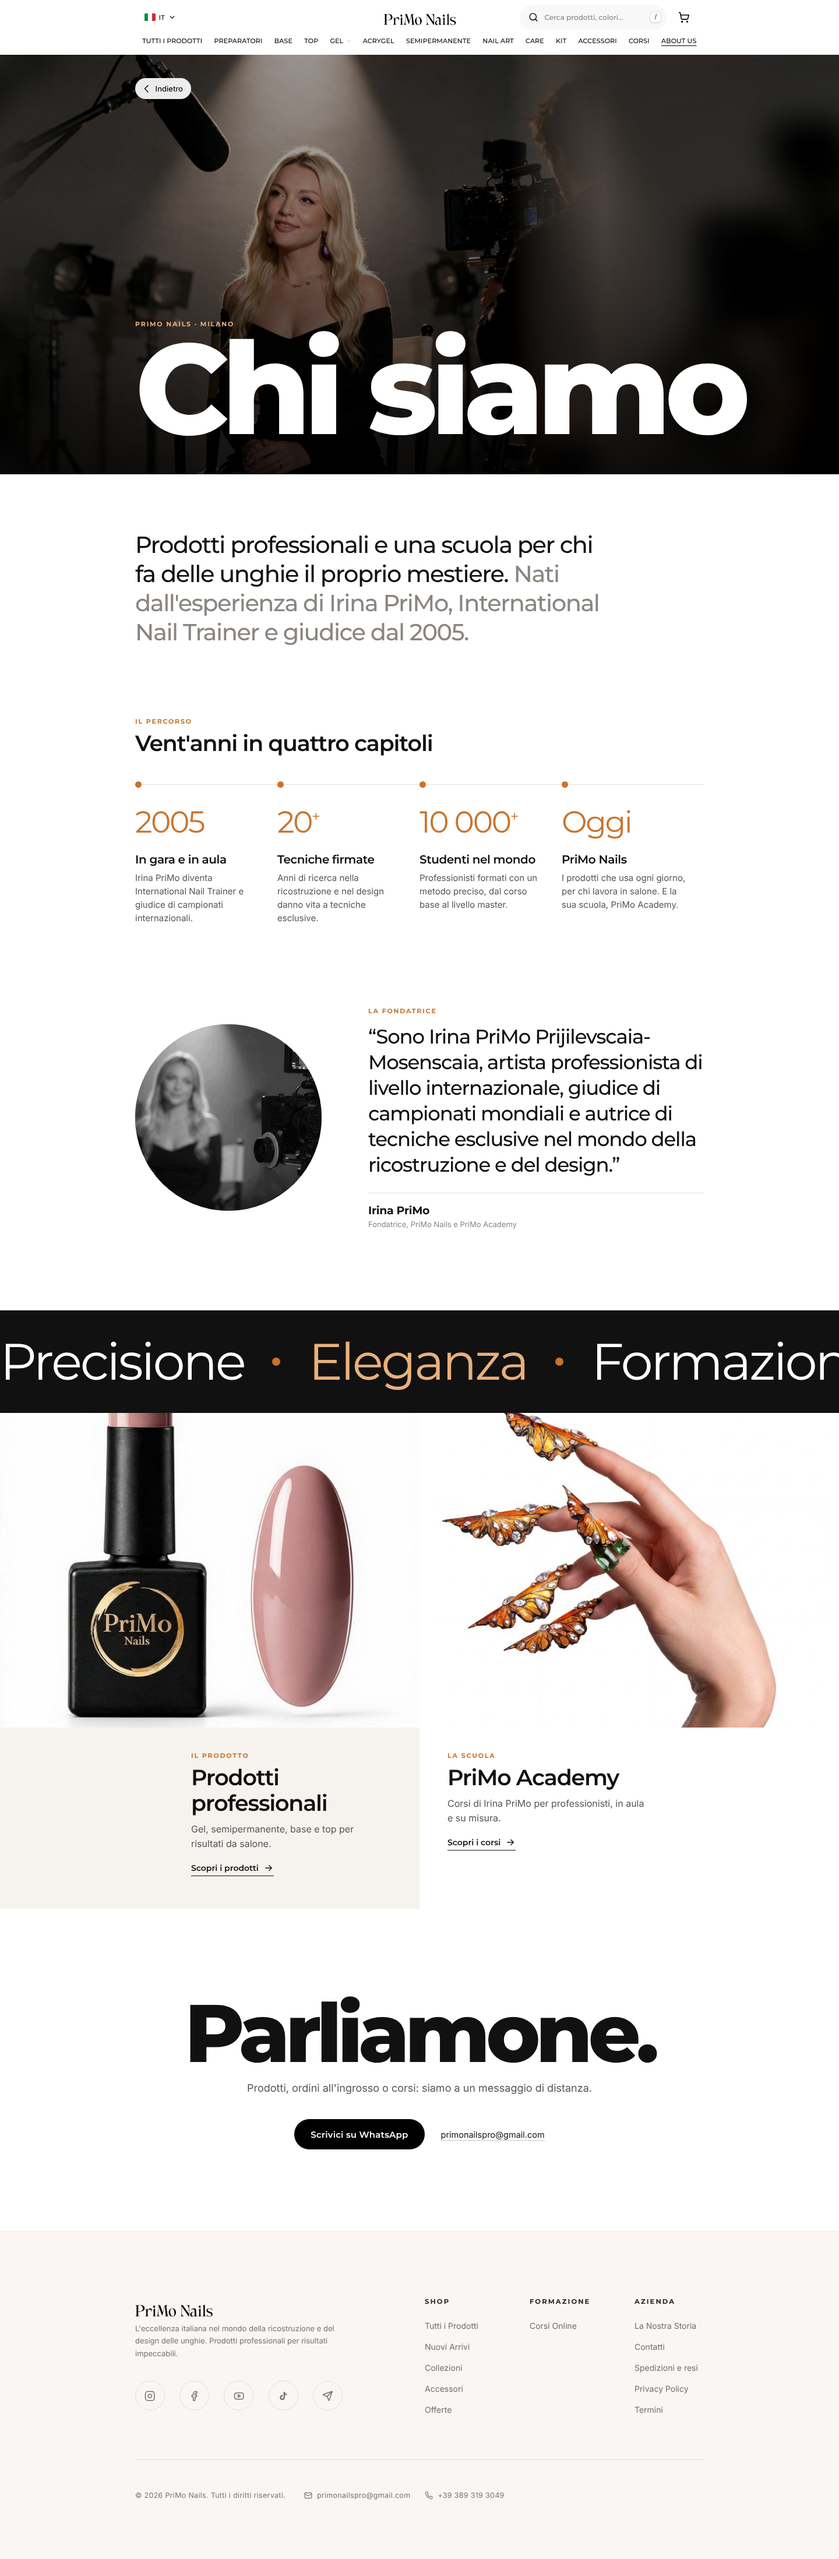
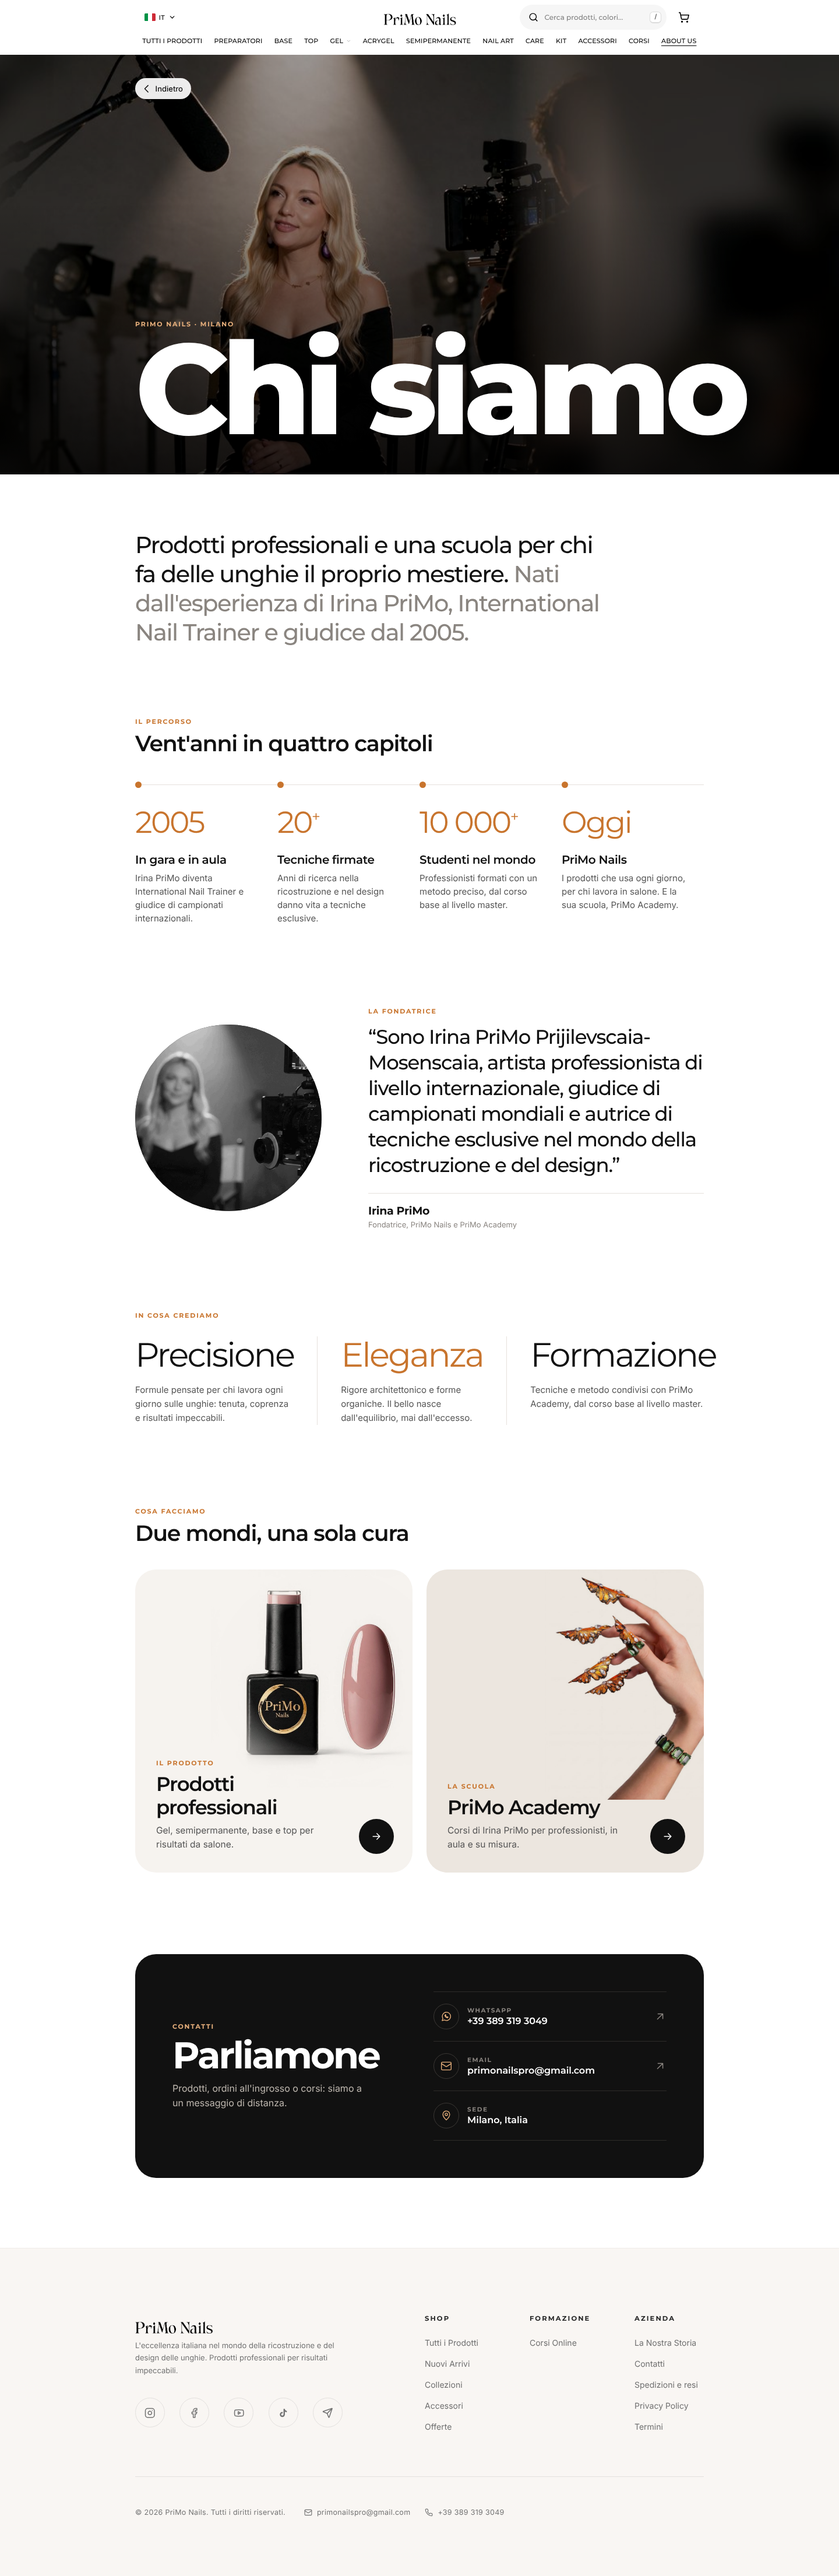
Chi siamo C: redesign the lower half
Replace the moving word band, full-bleed halves and giant ending with
three large thin value words, two warm shop/school tiles with round
arrow buttons, and a black contact panel listing WhatsApp, email and
the Milano base.

Claude-Session: https://claude.ai/code/session_017EUExbH1pksevugedMDwEj

diff --git a/css/about.css b/css/about.css
@@ -162,7 +162,7 @@
 }
 
 /* ===== Variant C (?v=c): cinematic. Full-bleed hero with giant type, a horizontal timeline, the founder in her own words,
-   a moving copper word band, two full-bleed halves for shop and school, and a typographic ending. ===== */
+   three values, two shop/school tiles and a black contact panel. ===== */
 .abc{--cx-warm:#f6f3ef;--cx-line:#e6e1dc;overflow:hidden}
 .abc h2{text-wrap:balance}
 .abc-hero{position:relative;height:560px;background:#111;color:#fff;overflow:hidden}
@@ -177,7 +177,7 @@
 
 .abc-time{padding:64px 0 0}
 .abc-time-head{padding:0 24px}
-.abc-time h2,.abc-end h2{margin:8px 0 0;font-size:30px;line-height:36px;font-weight:600;letter-spacing:-.9px;color:#111}
+.abc-time h2,.abc-paths h2{margin:8px 0 0;font-size:30px;line-height:36px;font-weight:600;letter-spacing:-.9px;color:#111}
 .abc-track{display:flex;gap:12px;margin:28px 0 0;padding:0 24px 4px;list-style:none;overflow-x:auto;scroll-snap-type:x mandatory;scroll-padding:0 24px;scrollbar-width:none;overscroll-behavior-x:contain}
 .abc-track::-webkit-scrollbar{display:none}
 .abc-track li{position:relative;flex:none;width:76%;padding:28px 22px 26px;border-radius:24px;background:var(--cx-warm);scroll-snap-align:start}
@@ -195,38 +195,9 @@
 .abc-name{margin:26px 0 0;padding-top:18px;border-top:1px solid var(--cx-line);font-size:17px;font-weight:700;letter-spacing:-.3px;color:#111}
 .abc-name span{display:block;margin-top:4px;font-family:var(--fi);font-size:13px;font-weight:400;letter-spacing:0;color:#8a8580}
 
-.abc-words-band{margin-top:72px;background:#111;overflow:hidden}
-.abc-band{padding:26px 0}
-.abc-band-track{display:flex;align-items:center;gap:28px;width:max-content;animation:abc-roll 26s linear infinite}
-.abc-band.off .abc-band-track{animation-play-state:paused}
-.abc-band span{font-size:44px;line-height:52px;font-weight:300;letter-spacing:-1.6px;color:#fff;white-space:nowrap}
-.abc-band span:nth-of-type(even){color:#e8b07c}
-.abc-band i{flex:none;width:10px;height:10px;border-radius:50%;background:var(--accent)}
-@keyframes abc-roll{to{transform:translateX(-50%)}}
-@media (prefers-reduced-motion:reduce){.abc-band-track{animation:none!important}}
 
-.abc-split{display:grid}
-.abc-half{position:relative;display:block;background:var(--cx-warm)}
-.abc-half img{width:100%;aspect-ratio:1;object-fit:cover;transition:transform .6s var(--ease)}
-.abc-half.school{background:#fff}
-.abc-half.school img{object-position:40% 15%}
-.abc-half>div{padding:28px 24px 40px}
-.abc-half h2{margin:8px 0 0;font-size:30px;line-height:36px;font-weight:600;letter-spacing:-.9px;color:#111}
-.abc-half>div>p:not(.cx-eyebrow){margin:10px 0 0;font-family:var(--fi);font-size:15px;line-height:23px;color:#555}
-.abc-go{display:inline-flex;align-items:center;gap:8px;margin-top:20px;padding-bottom:4px;border-bottom:1.5px solid #111;font-size:14px;font-weight:600;color:#111}
-.abc-go svg{width:18px;height:18px;stroke-width:1.8;transition:transform .2s}
-.abc-half:active{opacity:.92}
-
-.abc-end{padding:88px 24px 96px;text-align:center}
-.abc-end h2{font-size:64px;line-height:64px;font-weight:800;letter-spacing:-3.5px}
-.abc-end>p{margin:16px auto 0;max-width:320px;font-family:var(--fi);font-size:15.5px;line-height:23px;color:#555}
-.abc-ctas{display:flex;flex-direction:column;align-items:center;gap:18px;margin-top:30px}
-.abc-mail{font-family:var(--fi);font-size:14.5px;color:#111;text-decoration:underline;text-decoration-color:#c9c4bf;text-underline-offset:4px}
 
 @media (hover:hover) and (pointer:fine){
-  .abc-half:hover img{transform:scale(1.04)}
-  .abc-half:hover .abc-go svg{transform:translateX(4px)}
-  .abc-mail:hover{text-decoration-color:#111}
 }
 @media (max-width:439.98px){ .abc-title h1{font-size:84px;line-height:74px} }
 
@@ -242,7 +213,7 @@
 
   .abc-time{max-width:976px;margin:0 auto;padding-top:120px}
   .abc-time-head{padding:0}
-  .abc-time h2,.abc-end h2{font-size:38px;line-height:44px;letter-spacing:-1.2px}
+  .abc-time h2,.abc-paths h2{font-size:38px;line-height:44px;letter-spacing:-1.2px}
   .abc-track{display:grid;grid-template-columns:repeat(4,1fr);gap:0;margin-top:48px;padding:0;overflow:visible;border-top:1px solid var(--cx-line)}
   .abc-track li{width:auto;padding:36px 28px 0 0;border-radius:0;background:none}
   .abc-track li::before{left:0;right:auto;top:-6px;width:11px;height:11px;border-radius:50%;background:var(--accent)}
@@ -256,21 +227,69 @@
   .abc-words{font-size:34px;line-height:44px;letter-spacing:-1.2px}
   .abc-name{font-size:19px}
 
-  .abc-words-band{margin-top:140px}
-  .abc-band{padding:40px 0}
-  .abc-band-track{gap:48px}
-  .abc-band span{font-size:88px;line-height:96px;letter-spacing:-3.6px}
-  .abc-band i{width:14px;height:14px}
+}
 
-  .abc-split{grid-template-columns:1fr 1fr}
-  .abc-half img{aspect-ratio:4/3}
-  .abc-half>div{max-width:440px;padding:40px 48px 56px}
-  .abc-half.shop>div{margin-left:auto;padding-right:56px}
-  .abc-half h2{font-size:38px;line-height:44px;letter-spacing:-1.2px}
-  .abc-half>div>p:not(.cx-eyebrow){font-size:16px;line-height:25px}
+/* C: values, path tiles, contact panel */
+.abc-values{padding:72px 24px 0}
+.abc-values ul{margin:18px 0 0;padding:0;list-style:none;border-top:1px solid var(--cx-line)}
+.abc-values li{padding:22px 0 24px;border-bottom:1px solid var(--cx-line)}
+.abc-values h3{margin:0;font-size:48px;line-height:52px;font-weight:300;letter-spacing:-2.2px;color:#111}
+.abc-values li:nth-child(2) h3{color:var(--accent)}
+.abc-values li p{margin:8px 0 0;font-family:var(--fi);font-size:14.5px;line-height:22px;color:#555}
 
-  .abc-end{padding:140px 24px}
-  .abc-end h2{font-size:140px;line-height:130px;letter-spacing:-8px}
-  .abc-end>p{max-width:none;font-size:18px;line-height:27px}
-  .abc-ctas{flex-direction:row;justify-content:center;gap:28px;margin-top:40px}
+.abc-paths{padding:72px 24px 0}
+.abc-tiles{display:grid;gap:12px;margin-top:28px}
+.abc-tile{position:relative;display:flex;flex-direction:column;min-height:420px;padding:24px;border-radius:28px;background:var(--cx-warm);overflow:hidden;transition:transform .25s var(--ease),box-shadow .25s}
+.abc-tile img{position:absolute;right:-6%;top:0;width:86%;height:72%;object-fit:contain;object-position:100% 0;mix-blend-mode:multiply;transition:transform .6s var(--ease)}
+.abc-tile:not(.school) img{-webkit-mask-image:radial-gradient(ellipse 62% 62% at 58% 48%,#000 55%,transparent 100%);mask-image:radial-gradient(ellipse 62% 62% at 58% 48%,#000 55%,transparent 100%)}
+.abc-tile.school{background:#ece6df}
+.abc-tile.school img{right:-14%;width:96%;height:76%}
+.abc-tile-txt{position:relative;margin-top:auto;max-width:78%}
+.abc-tile h3{margin:8px 0 0;font-size:28px;line-height:32px;font-weight:600;letter-spacing:-.9px;color:#111}
+.abc-tile-txt>p:not(.cx-eyebrow){margin:8px 0 0;font-family:var(--fi);font-size:14.5px;line-height:21px;color:#555}
+.abc-arrow{position:absolute;right:20px;bottom:20px;display:grid;place-items:center;width:52px;height:52px;border-radius:50%;background:#111;color:#fff;transition:transform .25s var(--ease)}
+.abc-arrow svg{width:20px;height:20px;stroke-width:1.8}
+.abc-tile:active{transform:scale(.985)}
+
+.abc-contact{margin:72px 16px 40px;padding:40px 24px 16px;border-radius:28px;background:#111;color:#fff}
+.abc-contact .cx-eyebrow{color:#e8b07c}
+.abc-contact h2{margin:8px 0 0;font-size:44px;line-height:46px;font-weight:700;letter-spacing:-2px;color:#fff}
+.abc-contact-txt>p:not(.cx-eyebrow){margin:12px 0 0;font-family:var(--fi);font-size:15px;line-height:22px;color:#bdb6ae}
+.abc-lines{margin:28px 0 0;padding:0;list-style:none}
+.abc-lines li{border-top:1px solid #2e2b29}
+.abc-lines a,.abc-row{display:flex;align-items:center;gap:14px;min-height:76px;color:#fff}
+.abc-ic{flex:none;display:grid;place-items:center;width:44px;height:44px;border-radius:50%;border:1px solid #3a3734;color:#e8b07c}
+.abc-ic svg{width:20px;height:20px;stroke-width:1.6}
+.abc-lines a>span:nth-child(2),.abc-row>span:nth-child(2){flex:1;min-width:0;font-size:16px;font-weight:600;overflow-wrap:anywhere}
+.abc-lines small{display:block;margin-bottom:2px;font-size:10.5px;font-weight:700;letter-spacing:1.5px;text-transform:uppercase;color:#8a8580}
+.abc-go2{flex:none;width:22px;height:22px;stroke-width:1.6;color:#8a8580;transition:transform .25s var(--ease),color .2s}
+
+@media (hover:hover) and (pointer:fine){
+  .abc-tile:hover{transform:translateY(-4px);box-shadow:0 30px 60px -36px rgba(0,0,0,.3)}
+  .abc-tile:hover img{transform:scale(1.04)}
+  .abc-tile:hover .abc-arrow{transform:translateX(4px)}
+  .abc-lines a:hover .abc-go2{color:#fff;transform:translate(3px,-3px)}
+}
+
+@media (min-width:1024px){
+  .abc-values{max-width:976px;margin:0 auto;padding:140px 0 0}
+  .abc-values ul{display:grid;grid-template-columns:repeat(3,1fr);margin-top:28px;border-top:0}
+  .abc-values li{padding:0 40px 0 0;border-bottom:0}
+  .abc-values li+li{padding-left:40px;border-left:1px solid var(--cx-line)}
+  .abc-values h3{font-size:58px;line-height:64px;letter-spacing:-2.8px}
+  .abc-values li p{margin-top:16px;font-size:15px;line-height:24px}
+
+  .abc-paths{max-width:976px;margin:0 auto;padding:140px 0 0}
+  .abc-tiles{grid-template-columns:1fr 1fr;gap:24px;margin-top:40px}
+  .abc-tile{min-height:520px;padding:36px;border-radius:36px}
+  .abc-tile h3{font-size:34px;line-height:40px;letter-spacing:-1.2px}
+  .abc-tile-txt>p:not(.cx-eyebrow){font-size:15.5px;line-height:24px}
+  .abc-arrow{right:32px;bottom:32px;width:60px;height:60px}
+
+  .abc-contact{display:grid;grid-template-columns:minmax(0,1fr) 400px;gap:64px;align-items:center;max-width:976px;margin:140px auto 120px;padding:64px 64px;border-radius:36px}
+  .abc-contact h2{font-size:64px;line-height:66px;letter-spacing:-3px}
+  .abc-contact-txt>p:not(.cx-eyebrow){font-size:16px;line-height:25px;max-width:340px}
+  .abc-lines{margin:0}
+  .abc-lines li:last-child{border-bottom:1px solid #2e2b29}
+  .abc-lines a,.abc-row{min-height:84px}
 }

diff --git a/chi-siamo.html b/chi-siamo.html
@@ -17,7 +17,7 @@
 <link rel="stylesheet" href="css/site.css?v=c7978bb5">
 <link rel="stylesheet" href="css/search.css?v=b89386fe">
 <link rel="stylesheet" href="css/academy.css?v=81ab524e">
-<link rel="stylesheet" href="css/about.css?v=767b26ae">
+<link rel="stylesheet" href="css/about.css?v=540f4d43">
 </head>
 <body class="about">
 <div class="page" id="page">
@@ -189,29 +189,46 @@
       </div>
     </section>
 
-    <section class="abc-words-band" id="valori" aria-label="I nostri valori">
-      <div class="abc-band" data-animated aria-hidden="true"><div class="abc-band-track"><span>Precisione</span><i></i><span>Eleganza</span><i></i><span>Formazione</span><i></i><span>Eccellenza italiana</span><i></i><span>Precisione</span><i></i><span>Eleganza</span><i></i><span>Formazione</span><i></i><span>Eccellenza italiana</span><i></i></div></div>
-      <p class="sr">Precisione, eleganza, formazione, eccellenza italiana.</p>
+    <section class="abc-values" id="valori" aria-labelledby="values-h">
+      <p class="cx-eyebrow">In cosa crediamo</p>
+      <h2 id="values-h" class="sr">I nostri valori</h2>
+      <ul>
+        <li><h3>Precisione</h3><p>Formule pensate per chi lavora ogni giorno sulle unghie: tenuta, coprenza e risultati impeccabili.</p></li>
+        <li><h3>Eleganza</h3><p>Rigore architettonico e forme organiche. Il bello nasce dall'equilibrio, mai dall'eccesso.</p></li>
+        <li><h3>Formazione</h3><p>Tecniche e metodo condivisi con PriMo Academy, dal corso base al livello master.</p></li>
+      </ul>
     </section>
 
-    <section class="abc-split" id="lavoro" aria-label="Cosa facciamo">
-      <a class="abc-half shop" href="catalogo.html">
-        <img src="img/product.jpg" alt="" loading="lazy">
-        <div><p class="cx-eyebrow">Il prodotto</p><h2>Prodotti professionali</h2><p>Gel, semipermanente, base e top per risultati da salone.</p><span class="abc-go">Scopri i prodotti<svg viewBox="0 0 24 24" aria-hidden="true"><path d="M5 12h14M13 6l6 6-6 6"/></svg></span></div>
-      </a>
-      <a class="abc-half school" href="academy.html">
-        <img src="img/course1.jpg" alt="" loading="lazy">
-        <div><p class="cx-eyebrow">La scuola</p><h2>PriMo Academy</h2><p>Corsi di Irina PriMo per professionisti, in aula e su misura.</p><span class="abc-go">Scopri i corsi<svg viewBox="0 0 24 24" aria-hidden="true"><path d="M5 12h14M13 6l6 6-6 6"/></svg></span></div>
-      </a>
-    </section>
-
-    <section class="abc-end" aria-labelledby="end-h">
-      <h2 id="end-h">Parliamone.</h2>
-      <p>Prodotti, ordini all'ingrosso o corsi: siamo a un messaggio di distanza.</p>
-      <div class="abc-ctas">
-        <a class="cx-btn" href="https://wa.me/393893193049" target="_blank" rel="noopener">Scrivici su WhatsApp</a>
-        <a class="abc-mail" href="mailto:primonailspro@gmail.com">primonailspro@gmail.com</a>
+    <section class="abc-paths" id="lavoro" aria-labelledby="paths-h">
+      <p class="cx-eyebrow">Cosa facciamo</p>
+      <h2 id="paths-h">Due mondi, una sola cura</h2>
+      <div class="abc-tiles">
+        <a class="abc-tile" href="catalogo.html">
+          <img src="img/product.jpg" alt="" loading="lazy">
+          <div class="abc-tile-txt"><p class="cx-eyebrow">Il prodotto</p><h3>Prodotti professionali</h3><p>Gel, semipermanente, base e top per risultati da salone.</p></div>
+          <span class="abc-arrow" aria-hidden="true"><svg viewBox="0 0 24 24"><path d="M5 12h14M13 6l6 6-6 6"/></svg></span>
+          <span class="sr">Scopri i prodotti</span>
+        </a>
+        <a class="abc-tile school" href="academy.html">
+          <img src="img/course1.jpg" alt="" loading="lazy">
+          <div class="abc-tile-txt"><p class="cx-eyebrow">La scuola</p><h3>PriMo Academy</h3><p>Corsi di Irina PriMo per professionisti, in aula e su misura.</p></div>
+          <span class="abc-arrow" aria-hidden="true"><svg viewBox="0 0 24 24"><path d="M5 12h14M13 6l6 6-6 6"/></svg></span>
+          <span class="sr">Scopri i corsi</span>
+        </a>
       </div>
+    </section>
+
+    <section class="abc-contact" aria-labelledby="end-h">
+      <div class="abc-contact-txt">
+        <p class="cx-eyebrow">Contatti</p>
+        <h2 id="end-h">Parliamone</h2>
+        <p>Prodotti, ordini all'ingrosso o corsi: siamo a un messaggio di distanza.</p>
+      </div>
+      <ul class="abc-lines">
+        <li><a href="https://wa.me/393893193049" target="_blank" rel="noopener"><span class="abc-ic"><svg viewBox="0 0 24 24" aria-hidden="true"><path d="M3.5 20.5 5 16a8.5 8.5 0 1 1 3.2 3.1z"/><path d="M9 9.5c.3 2 2.5 4.6 5.5 5.3l1.2-1.4-1.8-1-1 .8c-1-.5-2-1.5-2.4-2.4l.8-1-1-1.8z"/></svg></span><span><small>WhatsApp</small>+39 389 319 3049</span><svg class="abc-go2" viewBox="0 0 24 24" aria-hidden="true"><path d="M7 17 17 7M8 7h9v9"/></svg></a></li>
+        <li><a href="mailto:primonailspro@gmail.com"><span class="abc-ic"><svg viewBox="0 0 24 24" aria-hidden="true"><rect width="20" height="16" x="2" y="4" rx="2"/><path d="m22 7-8.97 5.7a1.94 1.94 0 0 1-2.06 0L2 7"/></svg></span><span><small>Email</small>primonailspro@gmail.com</span><svg class="abc-go2" viewBox="0 0 24 24" aria-hidden="true"><path d="M7 17 17 7M8 7h9v9"/></svg></a></li>
+        <li><span class="abc-row"><span class="abc-ic"><svg viewBox="0 0 24 24" aria-hidden="true"><path d="M12 21s-7-6.2-7-11.5a7 7 0 0 1 14 0C19 14.8 12 21 12 21z"/><circle cx="12" cy="9.5" r="2.5"/></svg></span><span><small>Sede</small>Milano, Italia</span></span></li>
+      </ul>
     </section>
   </template>
   <script>(() => { if (new URLSearchParams(location.search).get('v') !== 'c') return; const m = document.getElementById('top'); m.className = 'abc'; m.replaceChildren(document.getElementById('ab-c').content.cloneNode(true)); })();</script>

diff --git a/src/pages/chi-siamo.html b/src/pages/chi-siamo.html
@@ -130,29 +130,46 @@
       </div>
     </section>
 
-    <section class="abc-words-band" id="valori" aria-label="I nostri valori">
-      <div class="abc-band" data-animated aria-hidden="true"><div class="abc-band-track"><span>Precisione</span><i></i><span>Eleganza</span><i></i><span>Formazione</span><i></i><span>Eccellenza italiana</span><i></i><span>Precisione</span><i></i><span>Eleganza</span><i></i><span>Formazione</span><i></i><span>Eccellenza italiana</span><i></i></div></div>
-      <p class="sr">Precisione, eleganza, formazione, eccellenza italiana.</p>
+    <section class="abc-values" id="valori" aria-labelledby="values-h">
+      <p class="cx-eyebrow">In cosa crediamo</p>
+      <h2 id="values-h" class="sr">I nostri valori</h2>
+      <ul>
+        <li><h3>Precisione</h3><p>Formule pensate per chi lavora ogni giorno sulle unghie: tenuta, coprenza e risultati impeccabili.</p></li>
+        <li><h3>Eleganza</h3><p>Rigore architettonico e forme organiche. Il bello nasce dall'equilibrio, mai dall'eccesso.</p></li>
+        <li><h3>Formazione</h3><p>Tecniche e metodo condivisi con PriMo Academy, dal corso base al livello master.</p></li>
+      </ul>
     </section>
 
-    <section class="abc-split" id="lavoro" aria-label="Cosa facciamo">
-      <a class="abc-half shop" href="catalogo.html">
-        <img src="img/product.jpg" alt="" loading="lazy">
-        <div><p class="cx-eyebrow">Il prodotto</p><h2>Prodotti professionali</h2><p>Gel, semipermanente, base e top per risultati da salone.</p><span class="abc-go">Scopri i prodotti<svg viewBox="0 0 24 24" aria-hidden="true"><path d="M5 12h14M13 6l6 6-6 6"/></svg></span></div>
-      </a>
-      <a class="abc-half school" href="academy.html">
-        <img src="img/course1.jpg" alt="" loading="lazy">
-        <div><p class="cx-eyebrow">La scuola</p><h2>PriMo Academy</h2><p>Corsi di Irina PriMo per professionisti, in aula e su misura.</p><span class="abc-go">Scopri i corsi<svg viewBox="0 0 24 24" aria-hidden="true"><path d="M5 12h14M13 6l6 6-6 6"/></svg></span></div>
-      </a>
-    </section>
-
-    <section class="abc-end" aria-labelledby="end-h">
-      <h2 id="end-h">Parliamone.</h2>
-      <p>Prodotti, ordini all'ingrosso o corsi: siamo a un messaggio di distanza.</p>
-      <div class="abc-ctas">
-        <a class="cx-btn" href="https://wa.me/393893193049" target="_blank" rel="noopener">Scrivici su WhatsApp</a>
-        <a class="abc-mail" href="mailto:primonailspro@gmail.com">primonailspro@gmail.com</a>
+    <section class="abc-paths" id="lavoro" aria-labelledby="paths-h">
+      <p class="cx-eyebrow">Cosa facciamo</p>
+      <h2 id="paths-h">Due mondi, una sola cura</h2>
+      <div class="abc-tiles">
+        <a class="abc-tile" href="catalogo.html">
+          <img src="img/product.jpg" alt="" loading="lazy">
+          <div class="abc-tile-txt"><p class="cx-eyebrow">Il prodotto</p><h3>Prodotti professionali</h3><p>Gel, semipermanente, base e top per risultati da salone.</p></div>
+          <span class="abc-arrow" aria-hidden="true"><svg viewBox="0 0 24 24"><path d="M5 12h14M13 6l6 6-6 6"/></svg></span>
+          <span class="sr">Scopri i prodotti</span>
+        </a>
+        <a class="abc-tile school" href="academy.html">
+          <img src="img/course1.jpg" alt="" loading="lazy">
+          <div class="abc-tile-txt"><p class="cx-eyebrow">La scuola</p><h3>PriMo Academy</h3><p>Corsi di Irina PriMo per professionisti, in aula e su misura.</p></div>
+          <span class="abc-arrow" aria-hidden="true"><svg viewBox="0 0 24 24"><path d="M5 12h14M13 6l6 6-6 6"/></svg></span>
+          <span class="sr">Scopri i corsi</span>
+        </a>
       </div>
+    </section>
+
+    <section class="abc-contact" aria-labelledby="end-h">
+      <div class="abc-contact-txt">
+        <p class="cx-eyebrow">Contatti</p>
+        <h2 id="end-h">Parliamone</h2>
+        <p>Prodotti, ordini all'ingrosso o corsi: siamo a un messaggio di distanza.</p>
+      </div>
+      <ul class="abc-lines">
+        <li><a href="https://wa.me/393893193049" target="_blank" rel="noopener"><span class="abc-ic"><svg viewBox="0 0 24 24" aria-hidden="true"><path d="M3.5 20.5 5 16a8.5 8.5 0 1 1 3.2 3.1z"/><path d="M9 9.5c.3 2 2.5 4.6 5.5 5.3l1.2-1.4-1.8-1-1 .8c-1-.5-2-1.5-2.4-2.4l.8-1-1-1.8z"/></svg></span><span><small>WhatsApp</small>+39 389 319 3049</span><svg class="abc-go2" viewBox="0 0 24 24" aria-hidden="true"><path d="M7 17 17 7M8 7h9v9"/></svg></a></li>
+        <li><a href="mailto:primonailspro@gmail.com"><span class="abc-ic"><svg viewBox="0 0 24 24" aria-hidden="true"><rect width="20" height="16" x="2" y="4" rx="2"/><path d="m22 7-8.97 5.7a1.94 1.94 0 0 1-2.06 0L2 7"/></svg></span><span><small>Email</small>primonailspro@gmail.com</span><svg class="abc-go2" viewBox="0 0 24 24" aria-hidden="true"><path d="M7 17 17 7M8 7h9v9"/></svg></a></li>
+        <li><span class="abc-row"><span class="abc-ic"><svg viewBox="0 0 24 24" aria-hidden="true"><path d="M12 21s-7-6.2-7-11.5a7 7 0 0 1 14 0C19 14.8 12 21 12 21z"/><circle cx="12" cy="9.5" r="2.5"/></svg></span><span><small>Sede</small>Milano, Italia</span></span></li>
+      </ul>
     </section>
   </template>
   <script>(() => { if (new URLSearchParams(location.search).get('v') !== 'c') return; const m = document.getElementById('top'); m.className = 'abc'; m.replaceChildren(document.getElementById('ab-c').content.cloneNode(true)); })();</script>
